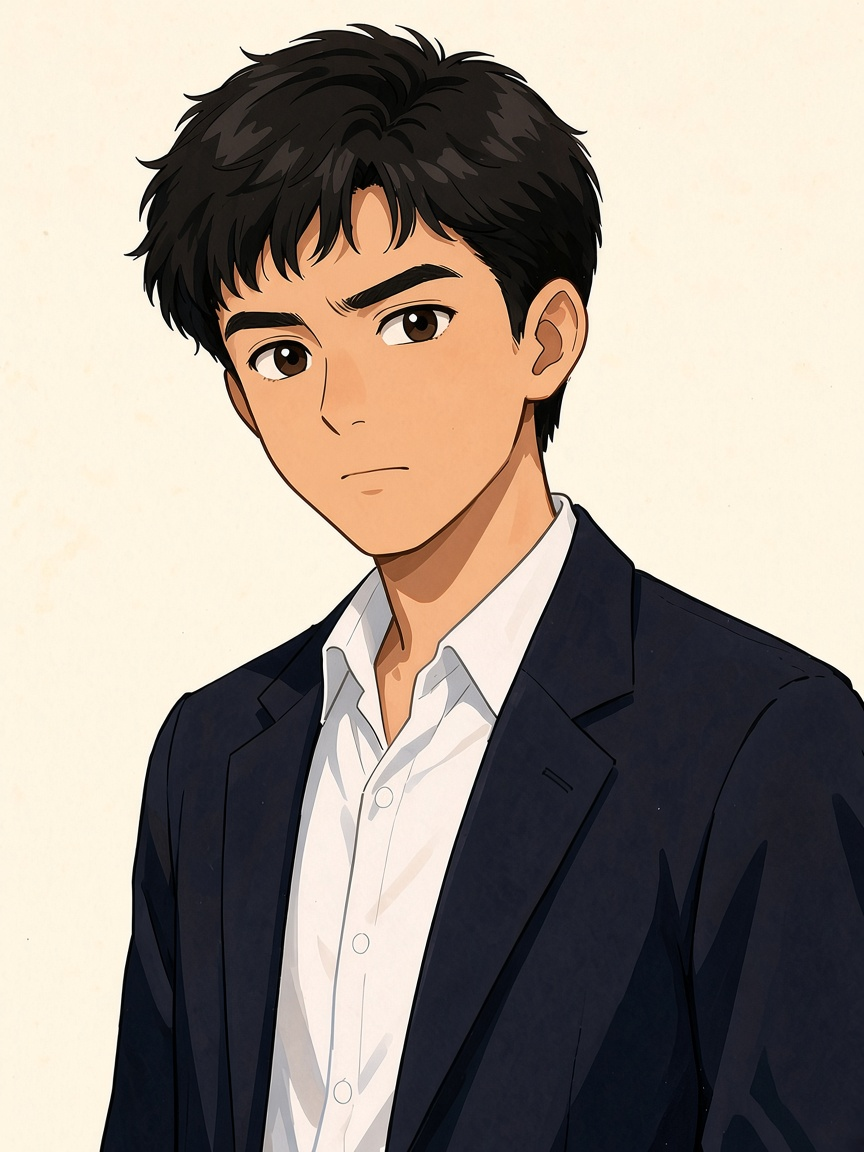
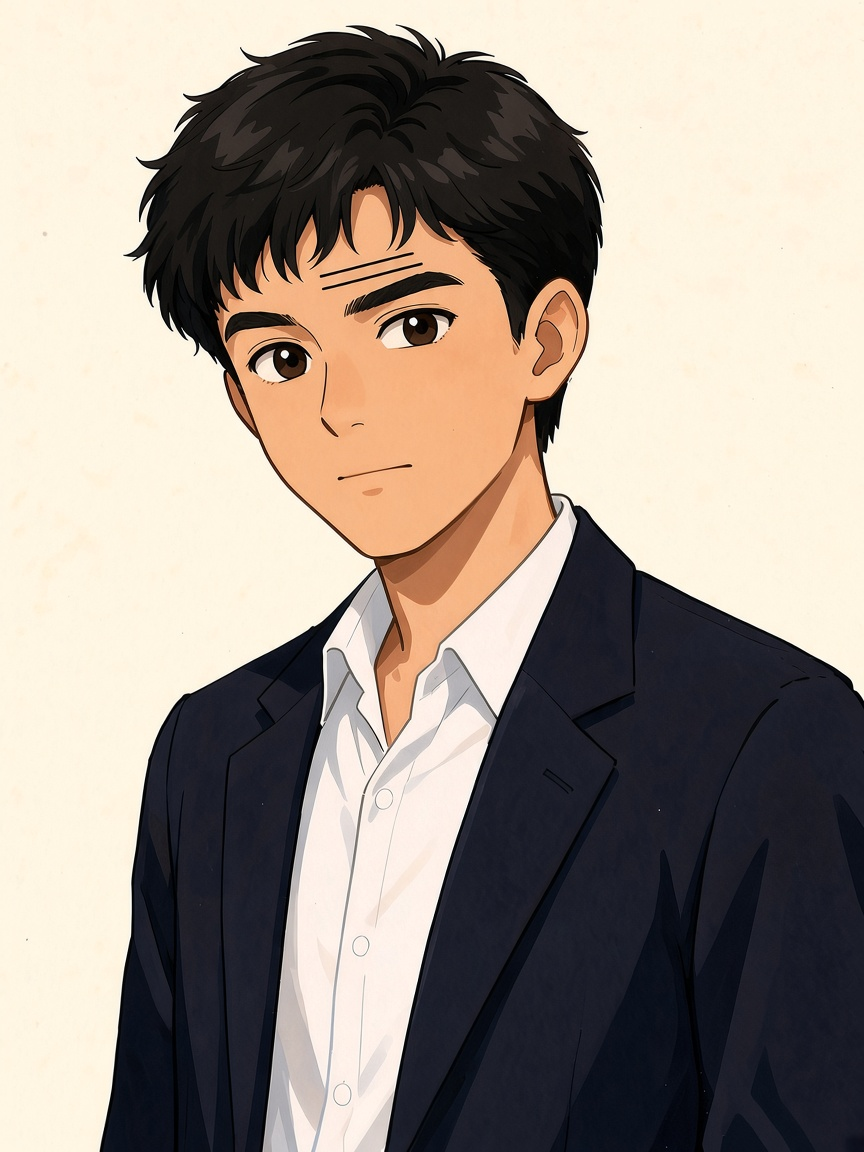
Soft: raise_brow Soft nit + luk frown Soft nit (#25)
Soft tip only. Soft≠PASS. No LIVE tip. SAVE/?v= still 19w.

- raise_brow Soft nit: hero + Cheung four-path sync
- luk frown Soft nit: luk_baakyin_bust_frown only (default/smile unchanged)
- 89–92 HOLD

diff --git a/assets/story/era_stars/MANIFEST.md b/assets/story/era_stars/MANIFEST.md
@@ -14,7 +14,7 @@
 | `liu_bingxing_bust_frown.png` | `11582108cabd5d8b7cd53be13788b962` |
 | `liu_bingxing_bust_smile.png` | `9429f734da9f95a6ef172ffeb5fdda6d` |
 | `luk_baakyin_bust_default.png` | `f0bc02d8db898c1d6799b8cabed342c7` |
-| `luk_baakyin_bust_frown.png` | `9e1342229fc79f1aa85ebecb318821d0` |
+| `luk_baakyin_bust_frown.png` | `d379b32269a427c4695399c46c553b3a` |
 | `luk_baakyin_bust_smile.png` | `202a6200b9a7bf019d63d8e5c1dd440c` |
 | `ngai_wingnaam_bust_default.png` | `1729ee30129632fd13ed3bad8a297537` |
 | `ngai_wingnaam_bust_frown.png` | `8a4ef50ea433990fb77dcba4db6d90d4` |
@@ -30,7 +30,7 @@
 
 | id | display | files | dims | notes |
 |---|---|---|---|---|
-| `luk_baakyin` | 陸柏言 | `*_bust_{default,smile,frown}.png` + `*_silhouette_far.png`（**sil v2**） | 864×1152 | **leather v5b**＋**smile Soft nit 2026-11-05**（露齒酒窩）。bak `bak_pre_luk_leather_v5/`＋`bak_pre_soft_nits_expr_20261105/` 留盤，唔入本 PR |
+| `luk_baakyin` | 陸柏言 | `*_bust_{default,smile,frown}.png` + `*_silhouette_far.png`（**sil v2**） | 864×1152 | **leather v5b**＋**smile Soft nit 2026-11-05**（露齒酒窩）＋**frown Soft nit 2026-11-05**（深 V 皺眉＋下撇嘴；MD5 `d379b322`）。default `f0bc02d8`／smile `202a6200` 唔動。bak `bak_pre_luk_leather_v5/`＋`bak_pre_soft_nits_expr_20261105/`＋`bak_pre_luk_frown_soft_nit_20261105/` 留盤，唔入本 PR |
 | `yip_manji` | 葉敏芝 | bust×3 + sil **v2** | 864×1152 | **starlet-v3 2026-11-05**：露肩 dusty-rose；邱淑貞／張敏氣質（禁抄臉）；GenerateImage。bak `bak_pre_yip_starlet_v3/` 留盤，唔入本 PR |
 | `so_jiyan` | 蘇芷茵 | bust×3 + `*_silhouette_far.png`（**sil v2 新建**） | 864×1152 | **jade-v4**＋**smile Soft nit 2026-11-05**（暖笑露齒提示）。bak `bak_pre_so_jade_v4/`＋`bak_pre_soft_nits_expr_20261105/` 留盤，唔入本 PR |
 | `liu_bingxing` | 廖炳星 | bust×3 + sil **v2** | 864×1152 | **chow-vibe v10 2026-11-05**：花恤衫正面；周星馳氣質（禁抄臉）；GenerateImage。bak `bak_pre_liu_chow_v10/` 留盤，唔入本 PR |
@@ -51,7 +51,7 @@
 
 ## Soft nits（唔擋；Soft≠PASS）
 
-1. `luk_baakyin` smile Soft nit **2026-11-05 已換**（露齒＋酒窩；MD5 `202a6200`）；frown↔default 眉差仍可再拉開（本輪未動 frown）  
+1. `luk_baakyin` smile Soft nit **2026-11-05 已換**（露齒＋酒窩；MD5 `202a6200`）；**frown Soft nit 2026-11-05 已換**（深 V 皺眉＋鼻樑壓＋下撇嘴；MD5 `d379b322`；對開 default smirk／smile 露齒）。Soft nits（唔擋）：怒氣線可再強；眉峰 V 可再銳  
 2. `so_jiyan` smile Soft nit **2026-11-05 已換**（暖笑露齒提示；MD5 `0b819961`）；能量仍可再推  
 3. `ngai_wingnaam` Soft nits expr **2026-11-05 已換×3**（default／smile／frown MD5 `1729ee30`／`fea5a476`／`8a4ef50e`）；**年齡仍偏嫩**（~38 未清）。kara-v2 已由 v5 取代，唔再係 live  
 4. `yip_manji` starlet-v3：咬唇／眨眼能量仍可再推；default↔smile 差可再拉開  
@@ -87,9 +87,19 @@ Soft≠PASS｜唔 tip LIVE｜唔 wake iOS｜89–92 HOLD｜silhouettes v2 Soft t
 
 `/workspace/star-volunteer-web-era-soft-nits-expr.tar.gz`（so smile＋luk smile＋ngai×3 live；`bak_pre_soft_nits_expr_20261105/` 留盤，唔入本 PR）
 
+`/workspace/star-volunteer-web-luk-frown-soft-nit.tar.gz`（只換 live `luk_baakyin_bust_frown.png`；bak／`_qc_refs`／QA composite 唔入本 PR）
+
 ## Related
 
 - Prior MVP：`/workspace/star-volunteer-web-era-stars-mvp.tar.gz`；ngai fix `/workspace/star-volunteer-web-era-ngai-cork-fix.tar.gz`
 - Core style-lock：`/workspace/star-volunteer-web-style-lock-core-busts.tar.gz`
 - Cheung style-lock：`/workspace/star-volunteer-web-style-lock-cheung.tar.gz`
 - QA：`/workspace/qa-gd-style-lock-era-20261105.md`
+
+## luk frown Soft nit 2026-11-05 (Asia/Hong_Kong)
+- 只換 live：`luk_baakyin_bust_frown.png` MD5 `d379b32269a427c4695399c46c553b3a`
+- 唔動：default `f0bc02d8db898c1d6799b8cabed342c7`；smile `202a6200b9a7bf019d63d8e5c1dd440c`（Soft tip #24）
+- 對開舊 frown：`9e1342229fc79f1aa85ebecb318821d0`。bak `bak_pre_luk_frown_soft_nit_20261105/` 留盤、唔入本 PR
+- Soft nits（唔擋 Soft tip）：怒氣線可再強；眉峰 V 可再銳
+- Soft≠PASS｜唔 tip LIVE｜唔抬 ?v=｜89–92 HOLD
+- Pack：`/workspace/star-volunteer-web-luk-frown-soft-nit.tar.gz`

diff --git a/assets/story/c1/MANIFEST.md b/assets/story/c1/MANIFEST.md
@@ -27,7 +27,7 @@
 | `char_hero_bust_default.png` | `default` | neutral／tense→default (beat 8) | 輕微笑 |
 | `char_hero_bust_eyes_down.png` | `eyes_down` | **worried** (beat 4) | 垂眼手頭緊 |
 | `char_hero_bust_frown.png` | `frown` | tense／worried alt | 皺眉繃緊 |
-| `char_hero_bust_raise_brow.png` | `raise_brow` | **firm** (beat 10「我選」) | **2026-11-05 style-lock**：對齊 `hero_awi.jpg`／default 平面動畫 cel-shade（換走半寫實 e99f2dd3）；MD5 `63670d1b`；bak `*_pre_style_lock_bak`；Soft：單側挑眉峰仍可再加強 |
+| `char_hero_bust_raise_brow.png` | `raise_brow` | **firm** (beat 10「我選」) | **2026-11-05 Soft nit**：單側挑眉＋額上橫紋（對開 frown／default）；MD5 `59dab337`；四路同 MD5；bak `bak_pre_raise_brow_soft_nit_20261105/`（唔入本 PR）；cel-shade 鎖 `hero_awi`／default |
 
 ### char_ho（何生／ho_sang）— ref `assets/npc_ho.jpg`
 
@@ -44,7 +44,7 @@
 | file | expression | emotion map | notes |
 |---|---|---|---|
 | `char_cheung_bust_default.png` | `default` | firm phone (beat 7) | **2026-11-05 style-lock**：對齊 `hero_awi`／default 平面 cel；LOOKS 背心＋黑框眼鏡＋牛仔恤＋聽筒；MD5 `920321c6`；bak `*_pre_style_lock_bak` |
-| `char_cheung_bust_raise_brow.png` | `raise_brow` | firm phone 加強 | **2026-11-05 style-lock**：同上身份／服裝；單側挑眉＋額紋；MD5 `5224f3dc`；四路同 MD5；Soft：挑眉峰仍可再加強 |
+| `char_cheung_bust_raise_brow.png` | `raise_brow` | firm phone 加強 | **2026-11-05 Soft nit**：單側挑眉＋額上橫紋（對開 live 皺眉）；MD5 `8a8d01a9`；四路同 MD5；bak `bak_pre_raise_brow_soft_nit_20261105/`（唔入本 PR）；身份／聽筒不變 |
 
 `firm` 臉 → 用 `raise_brow`（或 `default`）
 
@@ -69,7 +69,7 @@
 
 - [x] 無烘焙亂碼中文／商標
 - [x] 人臉大致跟 ref（awi 髮／外套；ho 眼鏡灰西裝；cheung LOOKS 背心／眼鏡／牛仔＋聽筒（style-lock 換走高領半寫實））
-- Soft notes: hero `raise_brow` **style-lock 2026-11-05**（動畫風；挑眉 Soft nit）；ho `frown` Soft OK；Soft≠PASS（整體）
+- Soft notes: hero／Cheung `raise_brow` **Soft nit 2026-11-05**（單側挑眉可讀；唔 tip LIVE）；ho `frown` Soft OK；Soft≠PASS（整體）
 - 未產 lan／藍若曦（用戶＋tester 確認）
 
 ## Pack
@@ -101,3 +101,12 @@
 - 身份 jpg `assets/npc_cheung.jpg` 仍係高領較年長記帳，本輪唔改、唔再開圖
 - Soft≠PASS｜唔 tip LIVE｜唔 wake iOS｜89–92 HOLD｜剪影後掛
 - Pack：`/workspace/star-volunteer-web-style-lock-cheung.tar.gz`
+
+## Soft nit raise_brow 2026-11-05 (Asia/Hong_Kong)
+- 問題：style-lock 後 hero／Cheung `raise_brow` 仍弱／讀成皺眉（對開 frown）
+- 已換：`char_hero_bust_raise_brow.png` MD5 `59dab337`；`char_cheung_bust_raise_brow.png` MD5 `8a8d01a9`（c1／story／dialog／npc 同 MD5）
+- bak：`bak_pre_raise_brow_soft_nit_20261105/`（舊 `63670d1b`／`5224f3dc`；留盤、唔入本 PR）
+- Pipeline：GenerateImage（mark-guide＋hero_awi／default refs）；Fal balance_exhausted；Dashscope key InvalidApiKey
+- Soft nits（唔擋 Soft tip）：額上橫紋偏強；Cheung 挑眉峰仍可再抬
+- Soft≠PASS｜唔 tip LIVE｜唔抬 ?v=｜89–92 HOLD｜parent tip only
+- Pack：`/workspace/star-volunteer-web-raise-brow-soft-nit.tar.gz`

diff --git a/assets/STYLE_CANON.md b/assets/STYLE_CANON.md
@@ -28,7 +28,7 @@
 
 ## Style-lock Cheung pair（2026-11-05 Asia/Hong_Kong）
 
-- 已 redo：`char_cheung_bust_default.png` MD5 `920321c6`、`char_cheung_bust_raise_brow.png` MD5 `5224f3dc`（c1／story／dialog／npc 四路同 MD5）
+- 已 redo：`char_cheung_bust_default.png` MD5 `920321c6`（c1／story／dialog／npc 四路同 MD5）。`char_cheung_bust_raise_brow.png` style-lock 當時 `5224f3dc`；live 見下方 Soft nit `8a8d01a9`
 - LOOKS：粗黑框眼鏡、卡其多口袋攝影背心、洗水牛仔恤、聽筒。準繩仍係 `hero_awi.jpg`＋`char_hero_bust_default.png`
 - bak：`assets/story/c1/char_cheung_bust_{default,raise_brow}_pre_style_lock_bak.png`（舊高領半寫實）
 - 身份 jpg `assets/npc_cheung.jpg` 仍係高領較年長記帳，本輪唔改
@@ -55,3 +55,20 @@
 - 2026-11-05 era silhouettes v2：`{luk_baakyin,liu_bingxing,ngai_wingnaam,yip_manji,so_jiyan}_silhouette_far.png`；GenerateImage＋RGBA 透明底；Soft≠PASS；唔 tip LIVE；`?v=` 仍 `19w`。
 
 - 2026-11-05 Soft nits expr：`so_jiyan_bust_smile`＋`luk_baakyin_bust_smile`＋`ngai_wingnaam` bust×3；GenerateImage；bak `era_stars/bak_pre_soft_nits_expr_20261105/` 留盤、唔入本 PR；挑眉 `char_hero_bust_raise_brow` 未入本 pack、唔動；Soft≠PASS；唔 tip LIVE；`?v=` 仍 `19w`；89–92 HOLD。
+
+## raise_brow Soft nit（2026-11-05 Asia/Hong_Kong）
+
+- 已換：`char_hero_bust_raise_brow.png` MD5 `59dab337`；`char_cheung_bust_raise_brow.png` MD5 `8a8d01a9`（c1／story／dialog／npc 四路同 MD5）
+- 對開 style-lock：hero `63670d1b`、Cheung `5224f3dc`。bak `story/c1/bak_pre_raise_brow_soft_nit_20261105/` 留盤、唔入本 PR
+- Pipeline：GenerateImage（mark-guide＋`hero_awi`／default refs）
+- Soft nits（唔擋 Soft tip）：額上橫紋偏強（尤其 hero）；Cheung 挑眉峰仍可再抬
+- Soft≠PASS；唔 tip LIVE；`?v=` 仍 `19w`；SAVE `starVolunteer_map_v19w`；89–92 HOLD
+- Pack：`/workspace/star-volunteer-web-raise-brow-soft-nit.tar.gz`
+
+## luk frown Soft nit（2026-11-05 Asia/Hong_Kong）
+
+- 只換：`story/era_stars/luk_baakyin_bust_frown.png` MD5 `d379b322`。default `f0bc02d8`／smile `202a6200` 唔動（smile 來自 Soft tip #24）
+- 對開舊 frown `9e134222`。bak `era_stars/bak_pre_luk_frown_soft_nit_20261105/` 留盤、唔入本 PR
+- Soft nits（唔擋 Soft tip）：怒氣線可再強；眉峰 V 可再銳
+- Soft≠PASS；唔 tip LIVE；`?v=` 仍 `19w`；SAVE `starVolunteer_map_v19w`；89–92 HOLD
+- Pack：`/workspace/star-volunteer-web-luk-frown-soft-nit.tar.gz`
